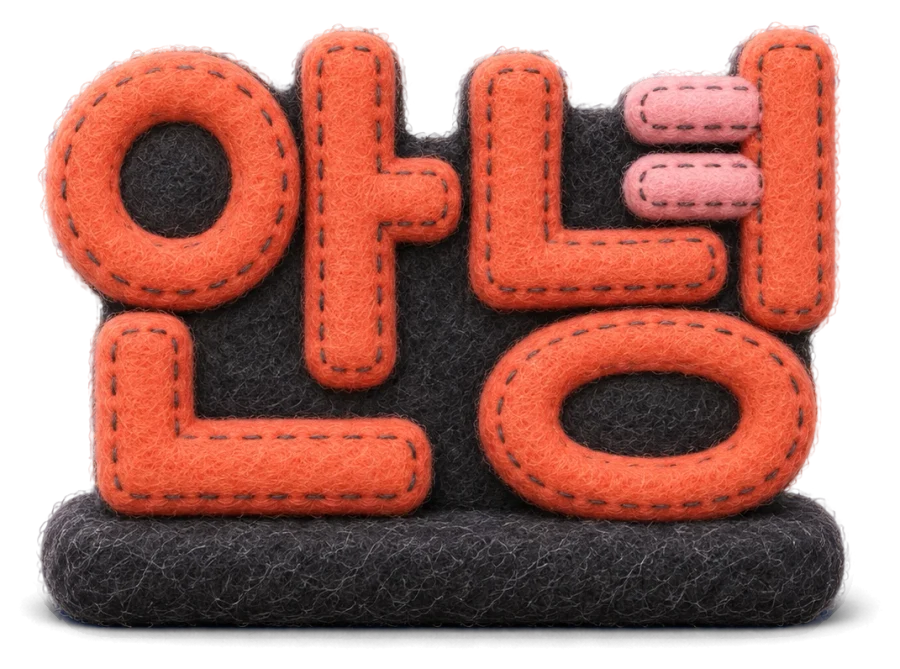
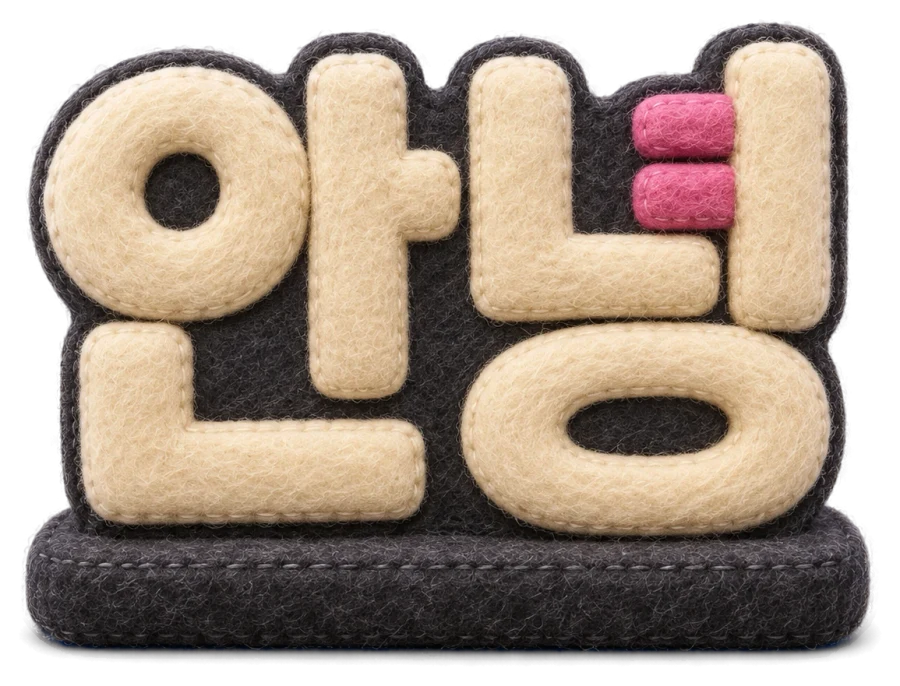
feat(플랫폼 앱 시안 · WORLD 「안녕」 색을 WORLD 첫 화면과 통일 · 11-06): 유호님 「world 화면도 일단은 통일하는게 … 색을 통일해보자」 — 코랄 글자 판을 WORLD 첫 화면(11-02 펠트 안녕 콘서트)과 같은 크림 글자 · 녕의 가로획 둘만 분홍으로 다시 구움. 첫 화면 그림을 색 · 재질 참고로 넣고(밤 사진이라 밝은 빛 기준 크림 #EFE3D0 · 분홍 #E2689A), 조판 원고로 받침까지 맞춤, 두 판 중 B. 세 시안 다시 찍음(넘침 0), 비교 페이지 4판, 플랫폼 시그널 11-06 절

diff --git a/docs/디자인/플랫폼_시그널/시안_20261106/c-도구.html b/docs/디자인/플랫폼_시그널/시안_20261106/c-도구.html
@@ -172,7 +172,7 @@ body{background:#fbfbfb}
       <!-- 앱 소개 -->
       <div class="v-world">
         <section class="head" aria-labelledby="world-h">
-          <div class="pic"><img src="assets/world-annyeong.webp" alt="짙은 받침 위에 선 코랄색 펠트 글자 「안녕」"></div>
+          <div class="pic"><img src="assets/world-annyeong.webp" alt="짙은 받침 위에 선 크림색 펠트 글자 「안녕」(녕의 가로획 둘만 분홍)"></div>
           <div><h2 id="world-h">SYNK WORLD</h2><p>한국어를 배우는 학생 · <span class="dot" aria-hidden="true"></span>설치됨</p></div>
           <div class="acts"><button class="btn btn-solid">WORLD 열기</button><button class="btn btn-line" aria-pressed="false">즐겨찾기</button></div>
         </section>

diff --git a/docs/디자인/플랫폼_시그널/시안_20261106/a-진열대.html b/docs/디자인/플랫폼_시그널/시안_20261106/a-진열대.html
@@ -139,7 +139,7 @@
     </div>
     <ul class="shelf" aria-label="내 앱과 회원 혜택">
       <li class="li"><a class="item big" href="#world">
-        <div class="stage"><img src="assets/world-annyeong.webp" alt="짙은 받침 위에 선 코랄색 펠트 글자 「안녕」"></div>
+        <div class="stage"><img src="assets/world-annyeong.webp" alt="짙은 받침 위에 선 크림색 펠트 글자 「안녕」(녕의 가로획 둘만 분홍)"></div>
         <div class="label">
           <h2>SYNK WORLD</h2>
           <p>TOPIK 진단부터 쓰기 연습, 한국어 게임까지 들어 있어요.</p>

diff --git a/docs/디자인/플랫폼_시그널/README.md b/docs/디자인/플랫폼_시그널/README.md
@@ -19,7 +19,7 @@
 - 비교 페이지(지금 판 · A · B · C, 시안마다 「눌러 보기」): https://claude.ai/artifact/TLgmUw6M1vcVcvQWV5Wawk (unmet23 계정). 원자료 · 캡처 · 재는 스크립트는 git 밖 `.tmp/platform-redesign-20261106/mock/`.
 - 시안 원본: [시안_20261106/](시안_20261106/) — [A 진열대](시안_20261106/a-진열대.html)(흰 판 회색 선반 위 펠트 물건, 앱 소개는 서울행 장면 셋) · [B 오늘의 무대](시안_20261106/b-무대.html)(검은 무대에 장면 포스터 셋 + 흰 판) · [C 조용한 도구](시안_20261106/c-도구.html)(왼쪽 목록 + 작업 판). 셋 다 `#home`(내 홈)과 `#world`(SYNK WORLD 앱 소개), 공통 글자 바탕 [shared.css](시안_20261106/shared.css)(크기 13 · 15 · 17 · 22 · 34 · 56, 굵기 400/600/700). 글은 `desktop/renderer/state.mjs` · `benefits.mjs` 그대로, 계정 이름 · 마지막 실행 시각 · 메모는 예시 값.
 - 검수: Fable 시안 검수 P1 3(회색 글 대비 · B 홈과 앱 소개가 같은 화면 + 검정 위 알약 둘 · A 앱 소개의 아이콘만 놓인 판) 모두 반영, 대비는 세 시안 × 1440 · 390 × 두 화면 전부 4.5:1(큰 글 3:1) 통과. Fable · Claude 추천은 A를 바탕으로 하고 앱 소개에 B의 장면 포스터, C는 지금 런처와 뼈대가 같아 뺀다.
-- **WORLD 물건 = 펠트 「안녕」(11-06 유호님 「「안녕」으로」):** 선반의 옛 WORLD 책(10-10, 위에서 찍은 납작한 판)이 「이상해」 — 혜택 물건 셋(10-17, 정면 살짝 위 · 서 있는 물건)과 각도 · 크기가 달랐다. 혜택 물건 셋을 각도 · 빛 참고로 넣고 같은 지시문 틀로 후보 넷(세운 책 · 학생증 · 「안녕」 · 응원봉)을 GPT 이미지 2.5로 구워 선반에 앉혀 비교했고, 짙은 받침 위 코랄 펠트 「안녕」(녕의 ㅕ만 분홍)을 골랐다. 글자 모양은 SUIT로 조판한 원고를 첫 참고로 넣어 받침까지 맞췄다. 화면용 [assets/world-annyeong.webp](시안_20261106/assets/world-annyeong.webp)(900px, 청금석 판에서 `tools/펠트_바탕색오리기.py`), 지시문 [world-annyeong.지시문.json](시안_20261106/assets/world-annyeong.지시문.json), 원판 넷은 git 밖 `SYNK-보관함/조사/디자인참고_20261106/world-object/`. 구현 때 PC · 웹의 WORLD 그림(`world-book.avif`)을 이것으로 바꾼다.
+- **WORLD 물건 = 펠트 「안녕」(11-06 유호님 「「안녕」으로」):** 선반의 옛 WORLD 책(10-10, 위에서 찍은 납작한 판)이 「이상해」 — 혜택 물건 셋(10-17, 정면 살짝 위 · 서 있는 물건)과 각도 · 크기가 달랐다. 혜택 물건 셋을 각도 · 빛 참고로 넣고 같은 지시문 틀로 후보 넷(세운 책 · 학생증 · 「안녕」 · 응원봉)을 GPT 이미지 2.5로 구워 선반에 앉혀 비교했고, 짙은 받침 위 펠트 「안녕」을 골랐고, 이어 유호님 「world 화면도 일단은 통일 … 색을 통일해보자」로 WORLD 첫 화면(11-02 펠트 안녕 콘서트)과 같은 크림 글자 · 녕의 가로획 둘만 분홍으로 다시 구웠다(첫 화면 그림을 색 참고로, 밤 사진이라 밝은 빛 기준 색 크림 #EFE3D0 · 분홍 #E2689A, 두 판 중 글자 간격이 고른 B 판). 글자 모양은 SUIT로 조판한 원고를 첫 참고로 넣어 받침까지 맞췄다. 화면용 [assets/world-annyeong.webp](시안_20261106/assets/world-annyeong.webp)(900px, 청금석 판에서 `tools/펠트_바탕색오리기.py`), 지시문 [world-annyeong.지시문.json](시안_20261106/assets/world-annyeong.지시문.json), 원판 넷은 git 밖 `SYNK-보관함/조사/디자인참고_20261106/world-object/`. 구현 때 PC · 웹의 WORLD 그림(`world-book.avif`)을 이것으로 바꾼다.
 - 다음: 유호님이 고르시면 그 판으로 회원 혜택 · 설정 · 설치·업데이트 · 손님 화면까지 그린 뒤 PC 런처와 웹 플랫폼에 함께 넣는다. 웹의 「둘러보기 · 새소식」은 웹 판에 남긴다. 워크스페이스 · 홈페이지 새 판(같은 날)과 글자 바탕을 맞춘다.
 
 ## 2차 — 싱ㅋ 시그널 2 (2026-10-10)
